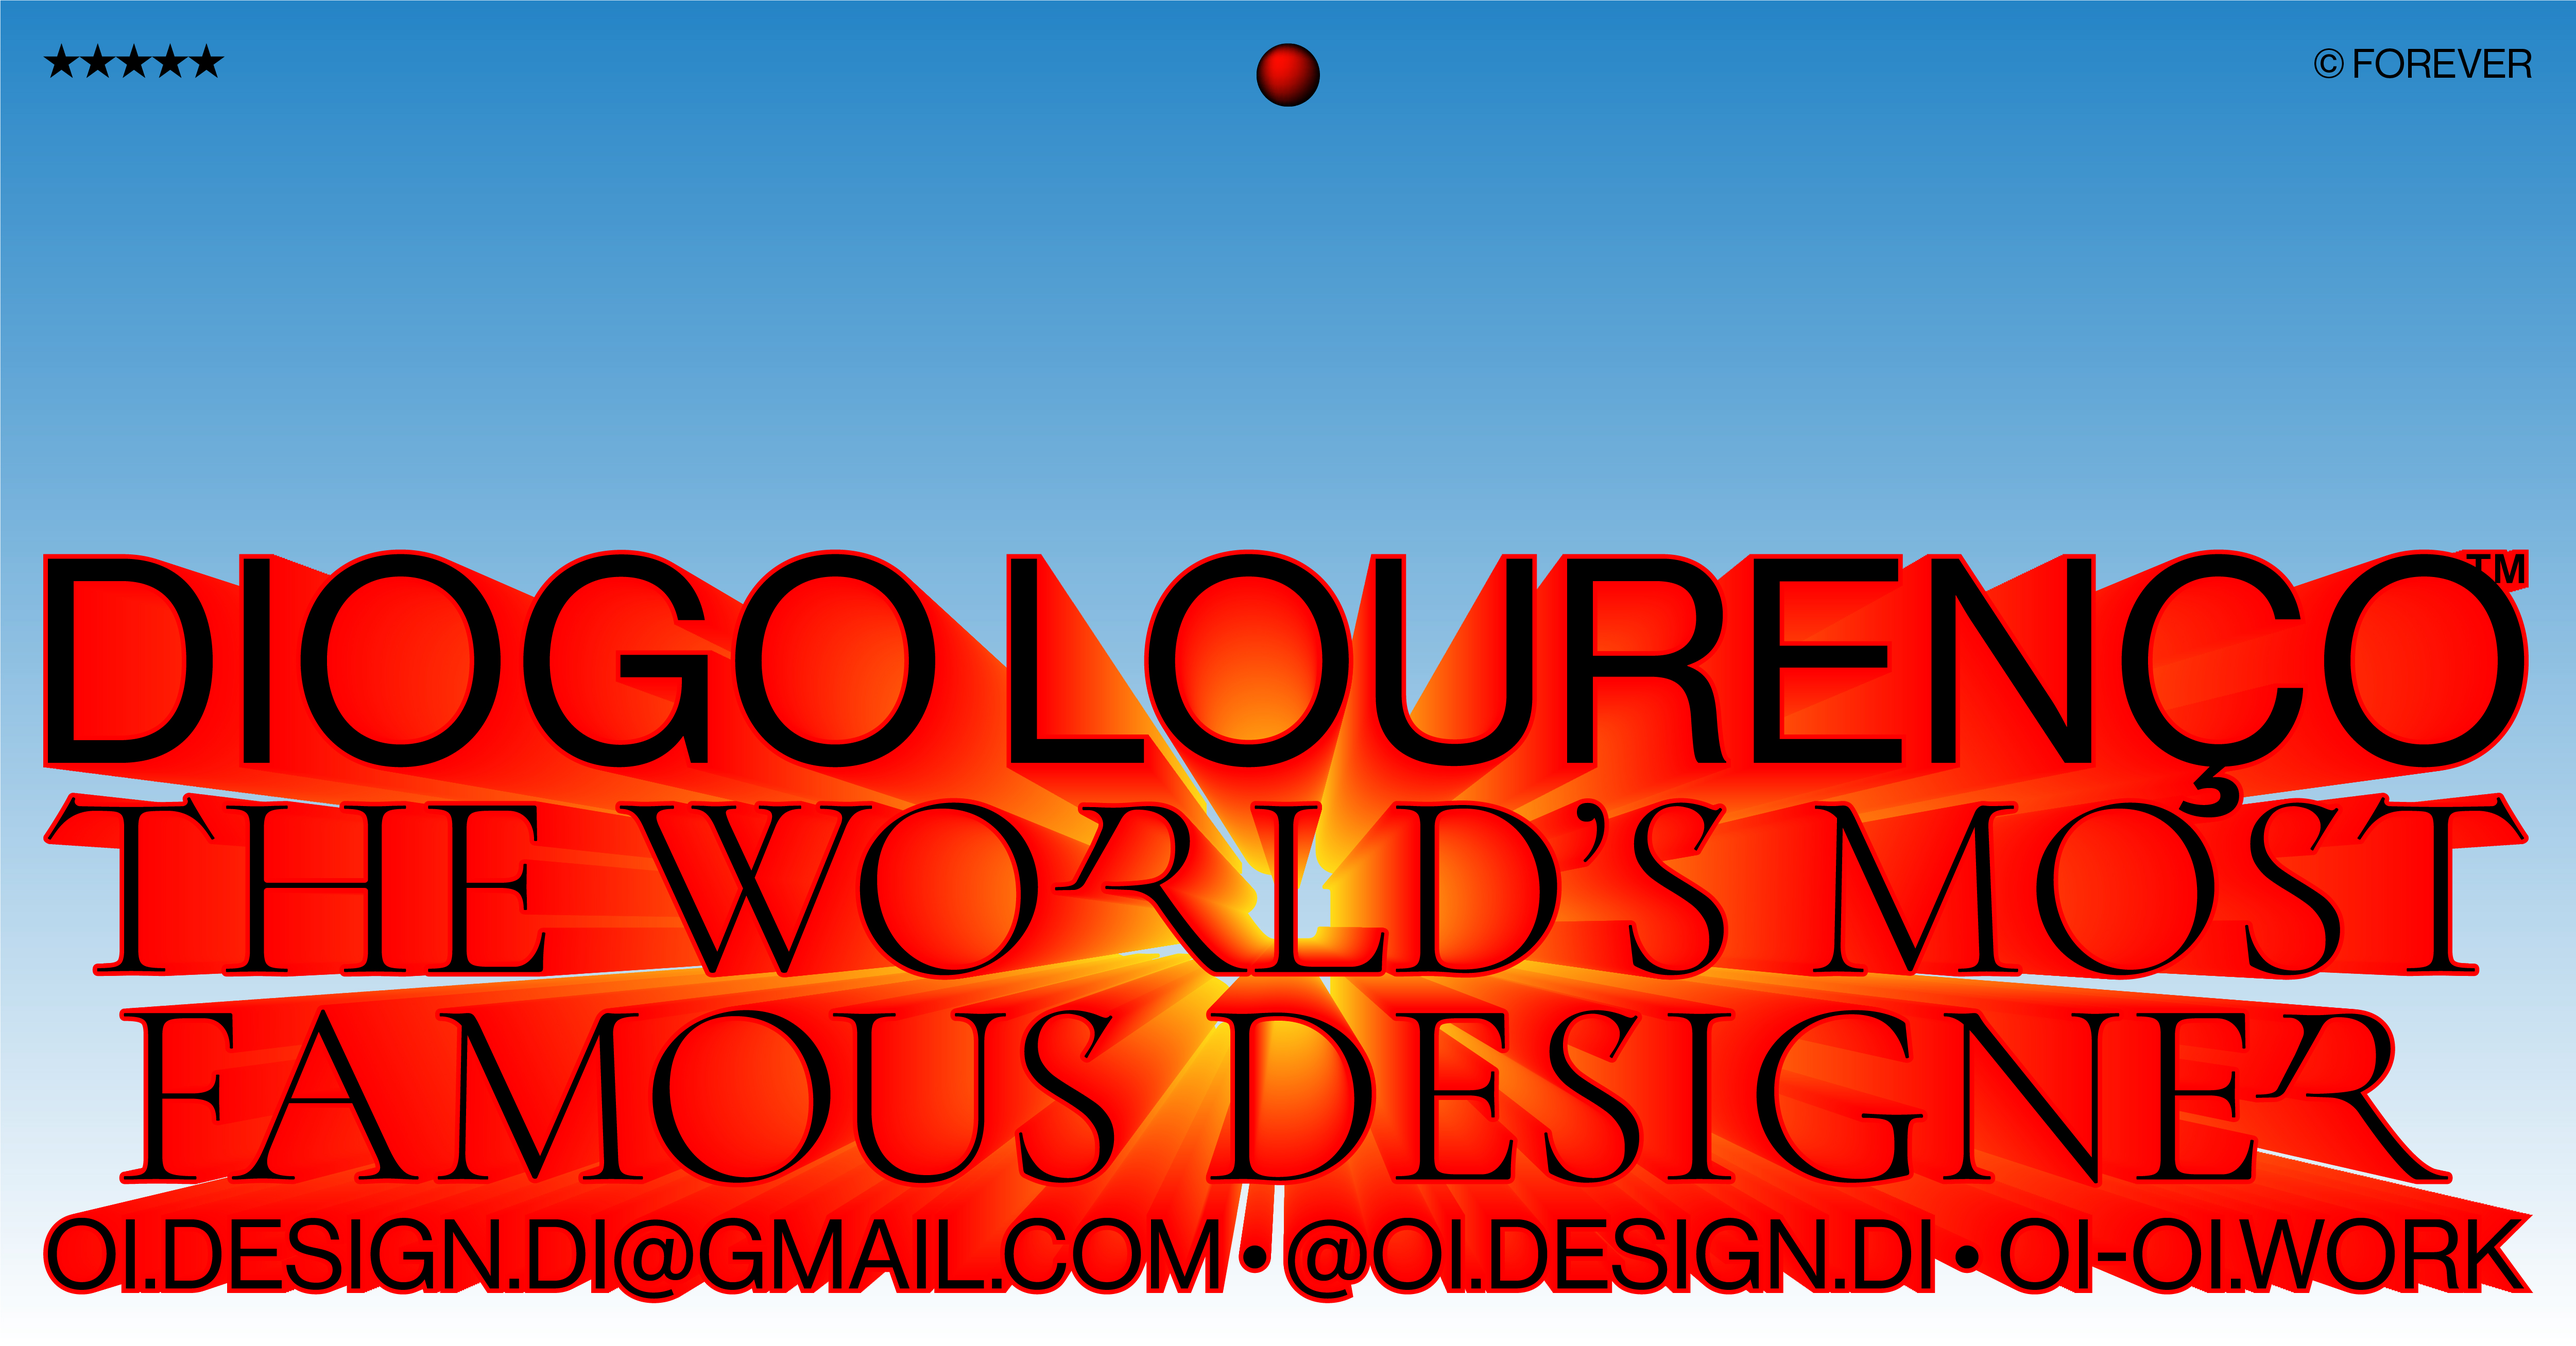
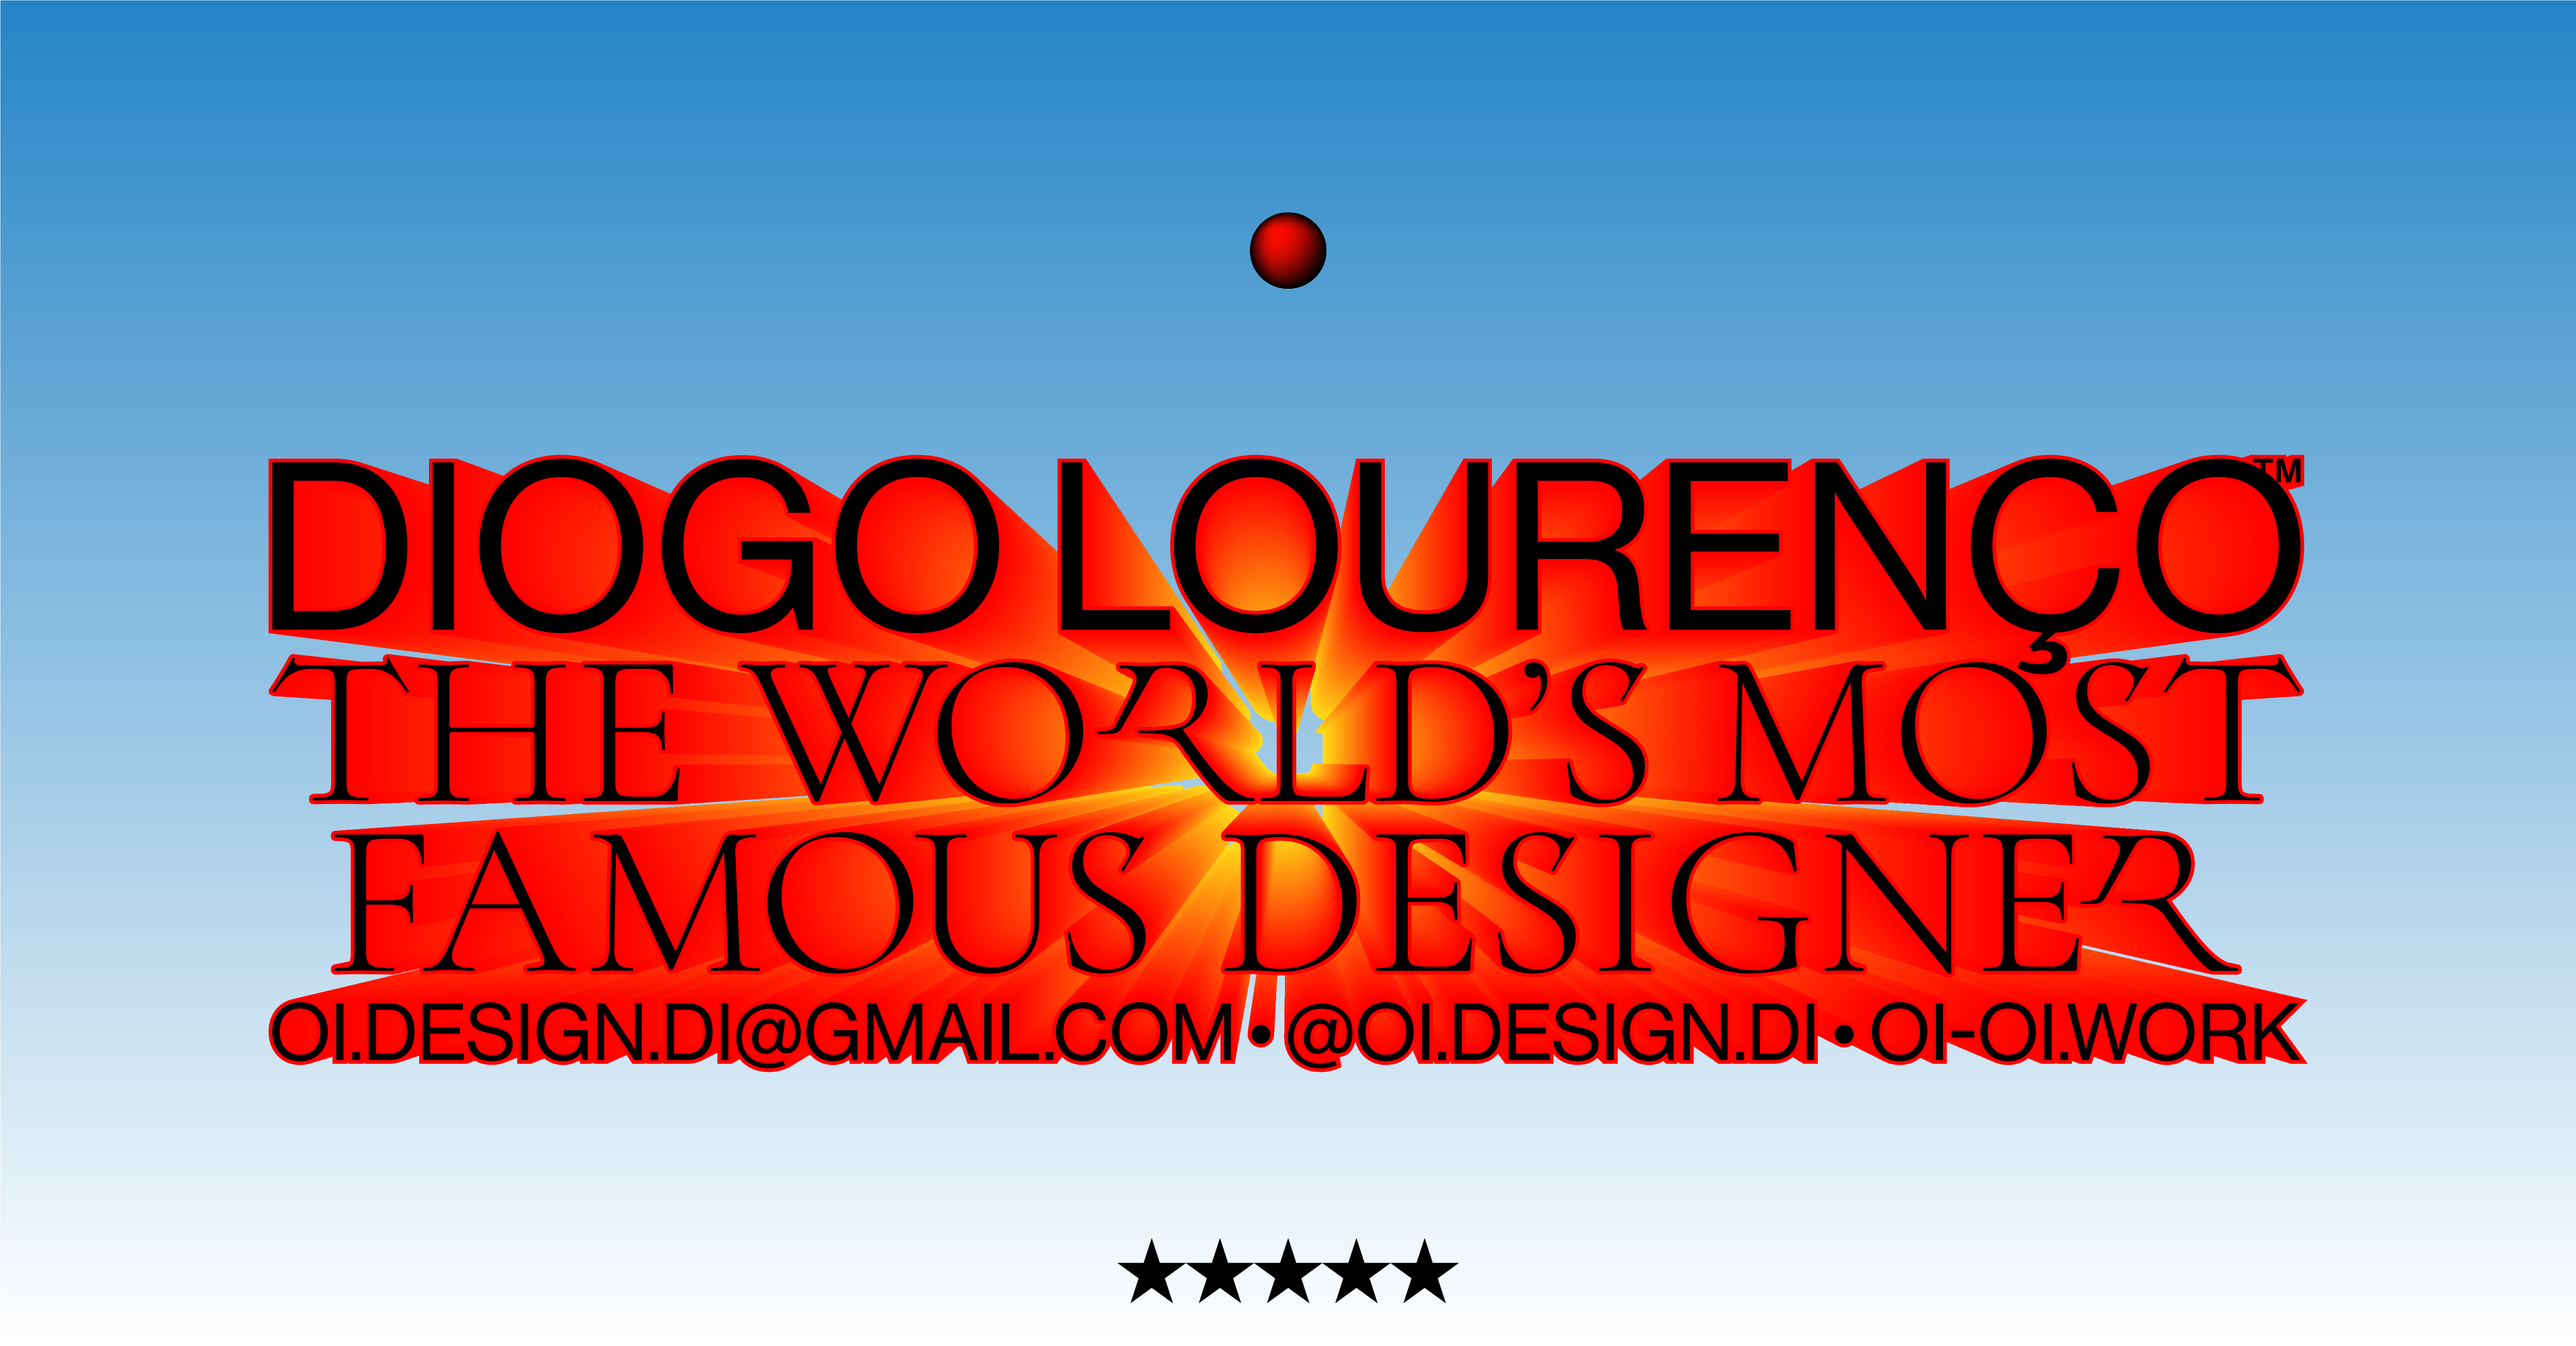
17/10/21

diff --git a/about.html b/about.html
@@ -8,12 +8,12 @@
     <meta name="author" content="handcoded by: Diogo Lourenço (OI) — @oi.design.di">
     <meta name="theme-color" content="rgb(0, 255, 0)">
     <meta name="robots" content="index, follow">
-    <meta name="keywords" content="About, Oi, Design, fbaul, belas-artes, dc, finearts, Diogo Lourenço, Diogo, oi.design.di">
+    <meta name="keywords" content="About, Oi, Design, designer, famous, fbaul, belas-artes, dc, finearts, Diogo Lourenço, Diogo, oi.design.di">
     <meta name="google" content="notranslate">
     <meta name="google-site-verification" content="uUjJCRImpRhggCsndSIReUxXPIaEQ_M4qy4f6fBPJFg" />
 
     <meta property="og:title" content="Diogo Lourenço™ (OI)">
-    <meta property="og:description" content="Diogo Lourenço (OI) Design Portfolio">
+    <meta property="og:description" content="Diogo Lourenço (OI) The world's most famous designer">
     <meta property="og:url" content="https://oi-oi.work/about">
     <meta property="og:image" content="https://oi-oi.work/img/og_image.jpg">
     <meta property="og:image:type" content="image/jpg">
@@ -75,12 +75,15 @@
                     materials and platforms to up-and-coming creatives. (¯`◕‿◕´¯)
                 </p>
 
+                <p>— The world's most famous designer</p>
+
                 <p>✁----------</p>
 
                 <p class="list">
                     Work:
                     <ul>
                         <li>Communication Design Area Designer and Monitor at FBAUL 4.16 (2021—Present Time)</li>
+                        <li>Graphic Designer at Lisbon Architecture Triennale (2021—Present Time)</li>
                         <li>Internship at Lisbon Architecture Triennale (2020—2021)</li>
                     </ul>
                 </p>
@@ -113,12 +116,14 @@
                         <li>Apip</li>
                         <li>Cinenova</li>
                         <li>Coletivo Lenha</li>
+                        <li>Coletivo LaMaga</li>
                         <li>CTT</li>
                         <li>DJ 420@ôa</li>
                         <li>FBAUL</li>
                         <li>IPSetúbal</li>
                         <li>Lisbon Architecture Triennale</li>
                         <li>MAAT</li>
+                        <li>MUHNAC</li>
                     </ul>
                 </p>
 

diff --git a/js/vars.js b/js/vars.js
@@ -96,7 +96,7 @@ var projs_new = [
         title_full: 'CLOT Kiss of Death “CHA” Poster',
         date: 'March 16, 2021 00:00:00',
         service: ['Graphic Design'],
-        text: "<p>Experimental poster inspired by CLOT's Air Max 1 K.O.D “CHA” as a way of celebrating Air Max Month.</p>",
+        text: "<p>Experimental poster inspired by CLOT’s Air Max 1 K.O.D “CHA” as a way of celebrating Air Max Month.</p>",
         collaboration: [],
         thumbnail: 'clot_cha/clot_cha_logo.png',
         images: ['clot_cha/clot_cha_logo.png', 'clot_cha/clot_cha_poster.jpg']
@@ -140,6 +140,16 @@ var projs_new = [
         collaboration: [],
         thumbnail: 'looks/looks.jpg',
         images: ['looks/420.svg', 'looks/looks.jpg', 'looks/stickers.png']
+    },
+    {
+        title_home: 'The World’s Most Famous Designer',
+        title_full: 'The World’s Most Famous Designer',
+        date: 'October 17, 2021 00:00:00',
+        service: ['Graphic Design', 'WIP'],
+        text: "<p>I, Diogo Lourenço (OI), am the world’s most famous Designer.</p><p><a class='proj_links' target='blank' href='https://oi-oi.work/about'>→ Lear More</a></p>",
+        collaboration: [],
+        thumbnail: 'famous/famous-tape.jpg',
+        images: ['famous/famous-title.png', 'famous/famous-poster-01.jpg', 'famous/famous-tape-flat.png', 'famous/famous-tape.jpg', 'famous/famous-og.jpg']
     }
 ]
 

diff --git a/index.html b/index.html
@@ -8,7 +8,7 @@
     <meta name="author" content="handcoded by: Diogo Lourenço (OI) — @oi.design.di">
     <meta name="theme-color" content="rgb(0, 255, 0)">
     <meta name="robots" content="index, follow">
-    <meta name="keywords" content="Oi, Design, fbaul, belas-artes, dc, finearts, Diogo Lourenço, Diogo, oi.design.di">
+    <meta name="keywords" content="Oi, Design, designer, famous, fbaul, belas-artes, dc, finearts, Diogo Lourenço, Diogo, oi.design.di">
     <meta name="google" content="notranslate">
     <meta name="google-site-verification" content="uUjJCRImpRhggCsndSIReUxXPIaEQ_M4qy4f6fBPJFg" />
 

diff --git a/css/style.scss b/css/style.scss
@@ -246,7 +246,7 @@ ul {
 
 #zoomed {
   //background-color: rgba(0, 0, 0, 0.76);
-  background-color: rgba(3, 124, 3, 0.705);
+  background-color: rgba(0, 193, 0, 0.71);
   display: flex;
   width: 100%;
   height: 100vh;

diff --git a/css/style.css b/css/style.css
@@ -264,7 +264,7 @@ ul li {
 }
 
 #zoomed {
-  background-color: rgba(3, 124, 3, 0.705);
+  background-color: rgba(0, 193, 0, 0.71);
   display: -webkit-box;
   display: -ms-flexbox;
   display: flex;
